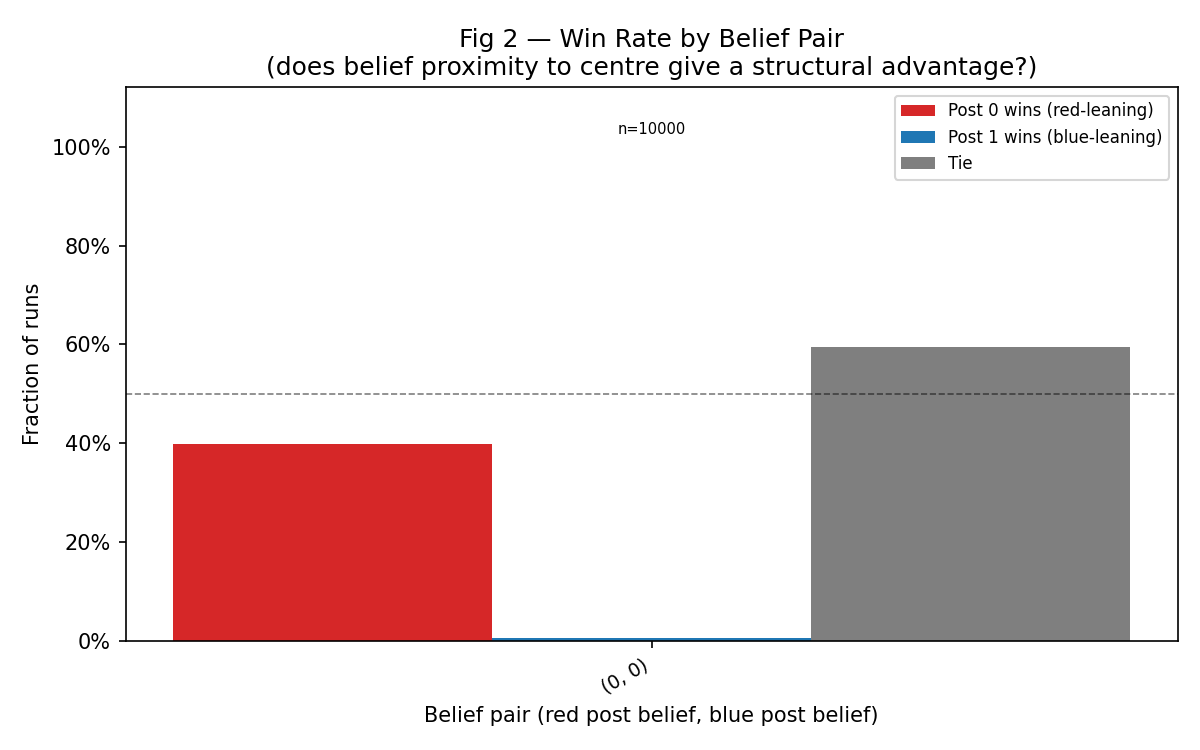
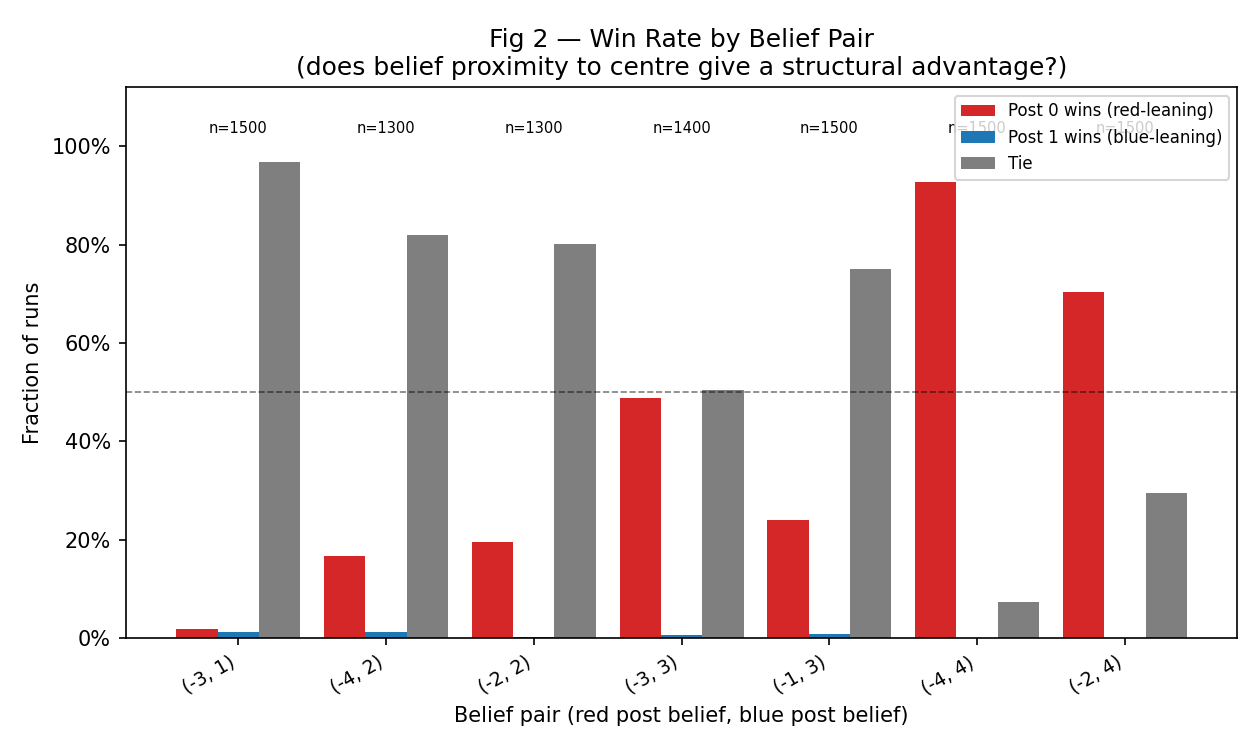
lazy commit

diff --git a/Hyp12Analysis.py b/Hyp12Analysis.py
@@ -21,8 +21,10 @@ from collections import defaultdict
 #  CONSTANTS
 # ─────────────────────────────────────────────────────────────────────────────
 
-OUTPUT_DIR  = "output"
-PLOTS_DIR   = "plots"
+SCRIPT_DIR  = os.path.dirname(os.path.abspath(__file__))
+INPUT_DIR   = os.path.join(SCRIPT_DIR, "input")
+OUTPUT_DIR  = os.path.join(SCRIPT_DIR, "output")
+PLOTS_DIR   = os.path.join(SCRIPT_DIR, "plots")
 NUM_CONFIGS = 100
 NUM_SEEDS   = 100
 
@@ -41,29 +43,36 @@ CAMP_COLOURS = {
 #  DATA LOADING
 # ─────────────────────────────────────────────────────────────────────────────
 
-def load_runs(output_dir, num_configs, num_seeds):
+def load_runs(input_dir, output_dir, num_configs, num_seeds):
     """
-    Load simulationData from output files.
-    Also reads Metadata embedded in the same output file if present,
-    or falls back to defaults.
+    Joins Metadata from the input config file with simulationData from the
+    output file on (config_num, seed_num).
     Returns a list of dicts, one per run that loaded cleanly.
     """
     runs = []
+    skipped_missing = 0
+    skipped_bad_posts = 0
+
     for config_num in range(num_configs):
         for seed_num in range(num_seeds):
+            config_path = os.path.join(input_dir,  f"hyp12-config-{config_num}.json")
             output_path = os.path.join(output_dir, f"hyp12-config-{config_num}s-{seed_num}.json")
 
-            if not os.path.exists(output_path):
+            if not os.path.exists(config_path) or not os.path.exists(output_path):
+                skipped_missing += 1
                 continue
 
+            with open(config_path) as f:
+                config = json.load(f)
             with open(output_path) as f:
                 sim = json.load(f)
 
-            meta = sim.get("Metadata", {})
+            meta = config.get("Metadata", {})
 
             # simulationData stores postID as string keys after json round-trip
             posts = sim.get("posts", {})
             if "0" not in posts or "1" not in posts:
+                skipped_bad_posts += 1
                 continue
 
             runs.append({
@@ -88,6 +97,9 @@ def load_runs(output_dir, num_configs, num_seeds):
             "contested":                 sim.get("contested_agents", {}),
         })
 
+    print(f"Loaded:          {len(runs)} runs")
+    print(f"Skipped missing: {skipped_missing} (config or output file not found)")
+    print(f"Skipped bad:     {skipped_bad_posts} (output missing post 0 or post 1)")
     return runs
 
 
@@ -650,9 +662,23 @@ def generate_summary(runs):
 def main():
     os.makedirs(PLOTS_DIR, exist_ok=True)
 
-    runs = load_runs(OUTPUT_DIR, NUM_CONFIGS, NUM_SEEDS)
+    print(f"Script dir:  {SCRIPT_DIR}")
+    print(f"Input dir:   {INPUT_DIR}  (exists: {os.path.exists(INPUT_DIR)})")
+    print(f"Output dir:  {OUTPUT_DIR}  (exists: {os.path.exists(OUTPUT_DIR)})")
+
+    # Print the first few files found in each folder so we can verify the naming pattern
+    for label, folder in [("input", INPUT_DIR), ("output", OUTPUT_DIR)]:
+        if os.path.exists(folder):
+            files = os.listdir(folder)[:5]
+            print(f"  First files in {label}/: {files}")
+        else:
+            print(f"  {label}/ folder not found")
+
+    runs = load_runs(INPUT_DIR, OUTPUT_DIR, NUM_CONFIGS, NUM_SEEDS)
 
     if not runs:
+        print(f"No runs loaded. Check that '{INPUT_DIR}' and '{OUTPUT_DIR}' exist and contain the expected files.")
+        print(f"Expected pattern: {INPUT_DIR}/hyp1-config-{{config_num}}s-{{seed_num}}.json")
         return
 
     plot_interaction_race(runs, PLOTS_DIR)
